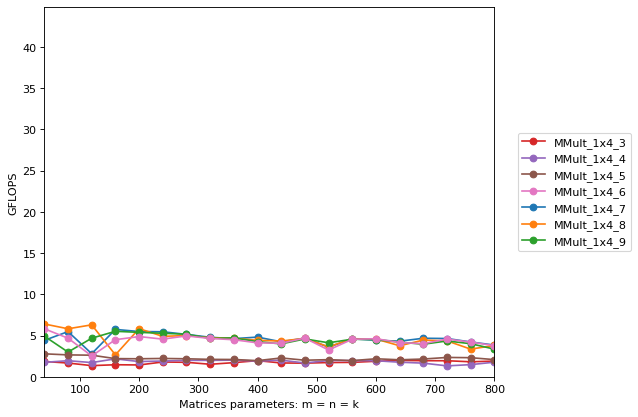
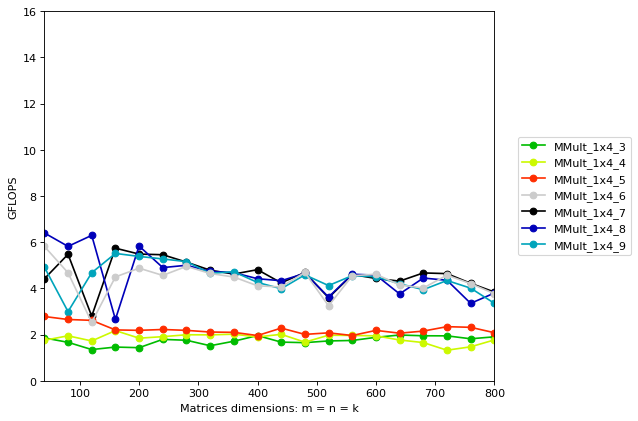
Minor changes to plot generation

diff --git a/zad1/HowToOptimizeGemm/plot_all.py b/zad1/HowToOptimizeGemm/plot_all.py
@@ -4,15 +4,25 @@ import csv
 import os
 import matplotlib.pyplot as plt
 from matplotlib.pyplot import figure
+import numpy as np
 import re
 
 
 OUTPUT_FILES_DIR = "."
-MAX_GFLOPS = 44.8
+MAX_GFLOPS = 16 # should be 44.8 in my processor's case, lowered to make the plots more readable
 
 
-def get_legend_str(f_name):
-    return f_name.replace("output_", "").replace(".csv", "")
+def get_series_entries(fname_pattern):
+    entries = []
+    for entry in os.scandir(OUTPUT_FILES_DIR):
+        if entry.is_file() and \
+        fname_pattern.match(entry.name):
+            entries.append(entry)
+    return entries
+
+
+def get_legend_str(fname):
+    return fname.replace("output_", "").replace(".csv", "")
 
 
 def get_labels_order(labels):
@@ -20,24 +30,29 @@ def get_labels_order(labels):
     return [e[1] for e in sorted(A)]
 
 
-def plot(f_name_pattern_str, save_f_name):
-    print(f"plotting {f_name_pattern_str}")
+def plot(fname_pattern_str, save_fname):
+    print(f"plotting {fname_pattern_str}")
+    fname_pattern = re.compile(fname_pattern_str)
+    series_entries = get_series_entries(fname_pattern)
+
     figure(figsize=(9, 6), dpi=80)
-    f_name_pattern = re.compile(f_name_pattern_str)
-    for entry in os.scandir(OUTPUT_FILES_DIR):
-        if entry.is_file() and \
-        f_name_pattern.match(entry.name):
-            with open(entry.path) as f:  
-                line_reader = csv.reader(f, delimiter=',')
-                xlabel, ylabel = tuple(v.strip() for v in next(line_reader))
-                # next(line_reader)
-                x = []
-                y = []
-                for row in line_reader:
-                    x.append(int(row[0]))
-                    y.append(float(row[1]))
-                plt.plot(x, y, label=get_legend_str(entry.name), marker="o")
+    # Avoid repeating label colors
+    colormap = plt.cm.nipy_spectral
+    colors = colormap(np.linspace(0, 1, len(series_entries)))
     ax = plt.gca()
+    ax.set_prop_cycle('color', colors)
+    
+    for entry in series_entries:
+        with open(entry.path) as f:  
+            line_reader = csv.reader(f, delimiter=',')
+            xlabel, ylabel = tuple(v.strip() for v in next(line_reader))
+            x = []
+            y = []
+            for row in line_reader:
+                x.append(int(row[0]))
+                y.append(float(row[1]))
+            plt.plot(x, y, label=get_legend_str(entry.name), marker="o")
+    
     ax.set_xlim([40, 800])
     ax.set_ylim([0, MAX_GFLOPS])            
     plt.xlabel(xlabel)
@@ -48,9 +63,8 @@ def plot(f_name_pattern_str, save_f_name):
     plt.legend([handles[idx] for idx in order], [labels[idx] for idx in order], bbox_to_anchor=(1.04, 0.5), loc="center left")
     plt.subplots_adjust(right=0.75)
 
-
-    plt.savefig(save_f_name, bbox_inches="tight")
-    print(f"saved as {save_f_name}")
+    plt.savefig(save_fname, bbox_inches="tight")
+    print(f"saved as {save_fname}")
 
 
 plot("^output_MMult0.csv$", "plot_initial.png")
